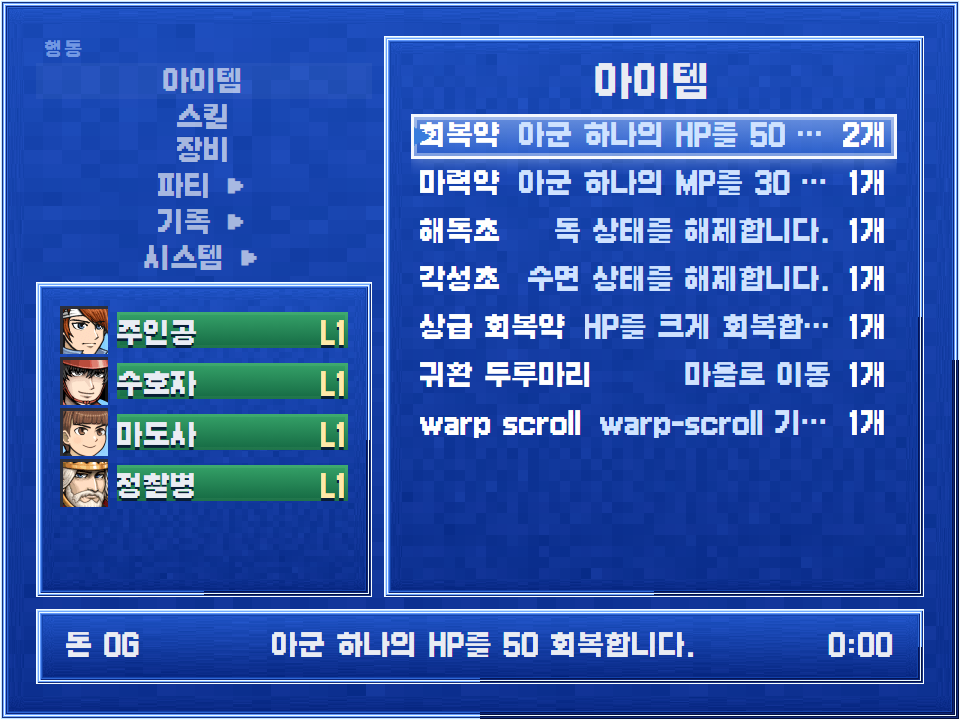
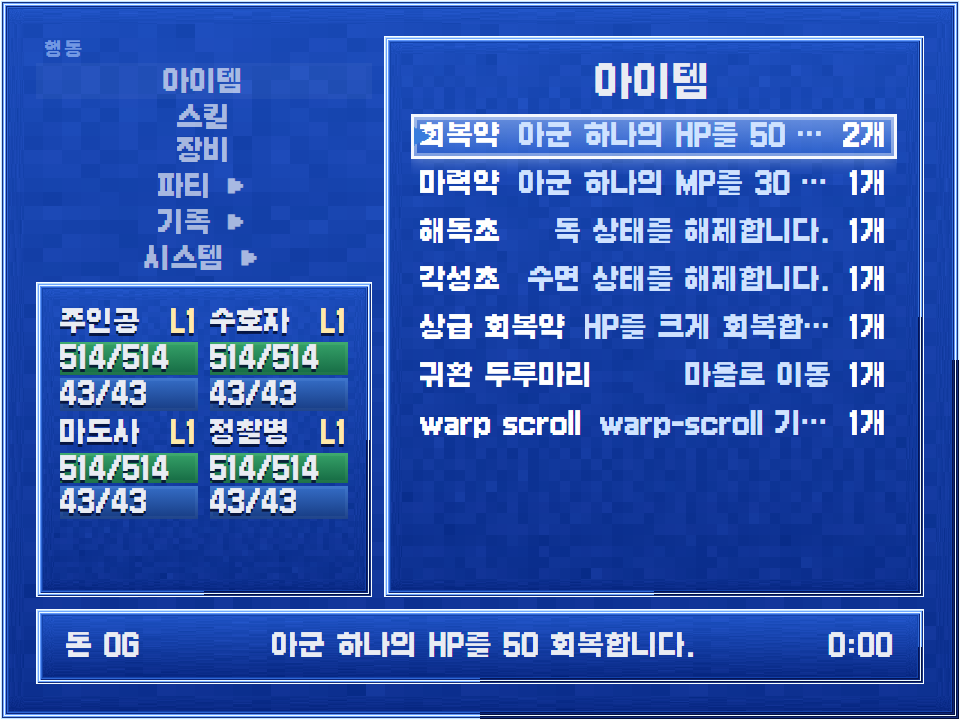
feat(menu): 장비 스탯 델타 — 커서 올린 후보 기준으로 능력치 증감 표시(목업 C)
장비를 값도 모르고 고르던 문제를 없앤다. 증감은 이미 설명 문자열에 있었지만
1줄로 압축된 행에서 말줄임으로 묻혀 판단에 쓸 수 없었다.

커서가 올라간 후보 기준으로 사이드바에 "변화" 블록을 그린다:
  공격 53 → 65 (+12)  초록
  방어 72              변화 없으면 화살표를 그리지 않는다 — 시선이 변화에만 가야 한다

절대 총합 기준이다. 장비 보너스 증감만 보여주면 "방어 +7" 이 큰 건지 작은 건지
판단할 기준이 없어서, 기본 능력치(레벨 곡선) + 전 부위 장비 보너스를 합산하고
해당 부위만 후보로 갈아끼워 비교한다.

후보를 고르는 동안에는 파티 대신 "변화" 가 뜬다. 둘 다 넣으면 사이드바를 넘기고,
그 순간 알고 싶은 건 파티 HP 가 아니다.

검증
  - tsc --noEmit -p tsconfig.app.json 통과
  - 전체 유닛 스위트를 main 과 파일 단위로 비교: 105 = 105, 증가한 실패 0건
  - e2e 에 델타 검사 추가 — 4개 스탯 행, 커서 이동 시 상승 행이 정확히 1개,
    그리고 그때 파티 패널이 대신 숨는지

Changed region(s): [[0.0625, 0.4278, 0.375, 0.7333]]

diff --git a/src/player/playerStatusMenuDetails.ts b/src/player/playerStatusMenuDetails.ts
@@ -1,6 +1,8 @@
 import type { SaveSlotIndex, SaveSlotReadResult } from "@/player/saveSlots";
 import { canEquip, effectiveActorEquipment, equipmentSlotAccepts } from "@/player/playerEquipmentRules";
 import { resolveActorName } from "@/project/sessionActorCommands";
+import { normalizeActorRecord, parameterValueAtLevel } from "@/project/actorModel";
+import type { StatusMenuStatDelta } from "@/player/playerStatusMenuDetailTypes";
 import { effectiveActorClassId } from "@/project/sessionClass";
 import type { PlaySession } from "@/project/session";
 import type {
@@ -24,7 +26,7 @@ import {
   type StatusMenuGroupEntryId,
 } from "@/player/playerStatusMenuModel";
 
-export type { StatusMenuDetail, StatusMenuDetailEntry, StatusMenuDetailOptions } from "@/player/playerStatusMenuDetailTypes";
+export type { StatusMenuDetail, StatusMenuDetailEntry, StatusMenuDetailOptions, StatusMenuStatDelta } from "@/player/playerStatusMenuDetailTypes";
 
 const EQUIPMENT_SLOTS = [
   { id: "weapon", label: "무기" },
@@ -204,6 +206,7 @@ function equipmentDetail(options: StatusMenuDetailOptions): StatusMenuDetail {
         label: "해제",
         value: equipmentName(equipmentById, currentEquipmentId),
         description: `현재 장비를 벗습니다 / ${statDiffLine(zeroStats(), currentStats)}`,
+        statDelta: equipmentStatDelta(options, actor, options.equipmentSlotId as keyof ActorInitialEquipment, undefined),
         testId: "status-menu-equipment-item-none",
         onActivate: options.onUnequipItem ? () => options.onUnequipItem?.(actor.id, options.equipmentSlotId as keyof ActorInitialEquipment) : undefined,
       }]
@@ -216,6 +219,7 @@ function equipmentDetail(options: StatusMenuDetailOptions): StatusMenuDetail {
         label: equipment.name,
         value: `소지 ${session.inventory[equipment.id] ?? 0}개`,
         description: equipmentDetailLine(equipment, currentStats),
+        statDelta: equipmentStatDelta(options, actor, options.equipmentSlotId as keyof ActorInitialEquipment, equipment.id),
         testId: `status-menu-equipment-item-${equipment.id}`,
         onActivate: options.onEquipItem ? () => options.onEquipItem?.(actor.id, options.equipmentSlotId as keyof ActorInitialEquipment, equipment.id) : undefined,
       })),
@@ -526,6 +530,39 @@ function skillKindLabel(skill: SkillRecord): string {
 
 function statDiffLine(next: EquipmentStatBonuses, current: EquipmentStatBonuses): string {
   return STAT_LABELS.map(([key, label]) => `${label} ${signed(next[key] - current[key])}`).join(" / ");
+}
+
+/** 기본 능력치(레벨 곡선) + 전 부위 장비 보너스 합계. 한 부위만 후보로 갈아끼워 비교한다.
+    장비 보너스 증감만 보여주면 "방어 +7" 이 큰 건지 작은 건지 판단할 기준이 없다. */
+function actorStatTotal(
+  options: StatusMenuDetailOptions,
+  actor: ActorRecord,
+  statKey: keyof EquipmentStatBonuses,
+  slotId: keyof ActorInitialEquipment,
+  candidateId: string | undefined
+): number {
+  const { project, session } = options;
+  const level = session.actorLevels[actor.id] ?? actor.initialLevel;
+  const curves = normalizeActorRecord(actor).parameterCurves;
+  const worn: ActorInitialEquipment = { ...actorEquipment(project, session, actor), [slotId]: candidateId };
+  return EQUIPMENT_SLOTS.reduce(
+    (total, slot) => total + equipmentStats(project, worn[slot.id])[statKey],
+    parameterValueAtLevel(curves[statKey], level)
+  );
+}
+
+function equipmentStatDelta(
+  options: StatusMenuDetailOptions,
+  actor: ActorRecord,
+  slotId: keyof ActorInitialEquipment,
+  candidateId: string | undefined
+): readonly StatusMenuStatDelta[] {
+  const currentId = actorEquipment(options.project, options.session, actor)[slotId];
+  return STAT_LABELS.map(([key, label]) => ({
+    label,
+    current: actorStatTotal(options, actor, key, slotId, currentId),
+    next: actorStatTotal(options, actor, key, slotId, candidateId),
+  }));
 }
 
 function equipmentDetailLine(equipment: EquipmentRecord, currentStats: EquipmentStatBonuses): string {

diff --git a/docs/2026-08-03-ingame-menu-uiux-proposal.html b/docs/2026-08-03-ingame-menu-uiux-proposal.html
@@ -139,7 +139,7 @@ footer{border-top:1px solid var(--line);padding:28px 0 48px;color:#89919f;font-s
 <nav><div class="wrap">
   <a href="#verdict">총평</a><a href="#now">현재 화면</a><a href="#failures">결함 12</a>
   <a href="#mockups">목업 3종</a><a href="#focus">포커스 모델</a><a href="#skins">메뉴 스킨</a>
-  <a href="#tech">기술 부채</a><a href="#shipped">구현 결과 A</a><a href="#shipped-b">구현 결과 B</a><a href="#priority">실행 순서</a>
+  <a href="#tech">기술 부채</a><a href="#shipped">구현 결과 A</a><a href="#shipped-b">구현 결과 B</a><a href="#shipped-c">구현 결과 C</a><a href="#priority">실행 순서</a>
 </div></nav>
 
 <main class="wrap">
@@ -601,6 +601,38 @@ footer{border-top:1px solid var(--line);padding:28px 0 48px;color:#89919f;font-s
   <div class="card" style="margin-top:18px"><h3>구현하며 배운 것 — 목업은 세로 예산을 모른다</h3>
     <p>목업 3종은 전부 4:3 비율을 지켰지만 <b>실제 폰트 메트릭과 최소 행 높이</b>는 담지 못했다. B안에서 바뀐 결정(파티 그룹까지 접기, 파티 1줄화, 얼굴 16px)은 모두 목업이 아니라 실측이 정했다.</p>
     <p>검사 자체가 틀린 적도 있다. 압축 행이 두 줄인지 보려고 <code>getBoundingClientRect()</code>(스테이지 스케일이 곱해진 값)와 <code>lineHeight</code>(CSS px)를 비교해 <b>항상 실패</b>했다. 실제로는 CSS가 이미 옳았다 — 측정 단위를 섞은 쪽이 틀렸다.</p>
+  </div>
+</section>
+
+<section id="shipped-c">
+  <div class="section-kicker">Shipped · C</div>
+  <h2>장비 스탯 델타 + 파티 수치 복구 — 구현 완료</h2>
+  <div class="diffgrid">
+    <div class="evidence">
+      <img src="./2026-08-03-ingame-menu-assets/after-c-equipment-delta.png" alt="장비 스탯 델타">
+      <div class="caption"><b>장비 후보</b> — 커서를 올린 후보 기준으로 좌측 "변화" 블록이 갱신된다. <code>공격 53 → 65 (+12)</code> 초록, 하락은 빨강, <b>변하지 않는 값은 화살표를 그리지 않는다</b></div>
+    </div>
+    <div class="evidence">
+      <img src="./2026-08-03-ingame-menu-assets/after-b-items.png" alt="파티 2×2 격자">
+      <div class="caption"><b>파티 2×2</b> — MP 게이지와 HP/MP 수치를 되살렸다. 셀 폭 52px 라 접두사 없이 수치만, 어느 쪽인지는 게이지 색이 알려준다</div>
+    </div>
+  </div>
+  <div class="grid3" style="margin-top:18px">
+    <div class="card good"><h3>델타는 절대 총합 기준</h3>
+      <p>장비 보너스 증감만 보여주면 <code>방어 +7</code>이 큰 건지 작은 건지 판단할 기준이 없다.</p>
+      <p>그래서 <b>기본 능력치(레벨 곡선) + 전 부위 장비 보너스</b>를 합산하고, 해당 부위만 후보로 갈아끼워 비교한다.</p>
+      <p>후보를 고르는 동안에는 파티 대신 "변화"가 뜬다. 그 순간 알고 싶은 건 파티 HP가 아니다.</p>
+    </div>
+    <div class="card good"><h3>파티 수치 복구</h3>
+      <p>1열 × 4명으로 HP/MP 두 줄을 넣으면 명당 34px = 136px 라 사이드바(100px)를 넘겨 뒤 2명이 잘렸다.</p>
+      <p><b>2×2 격자</b>로 두면 2행 × 34px = 69px 로 들어간다. 대신 셀 폭이 52px 라 얼굴을 뺐다.</p>
+      <p><code>HP 514/514</code>는 가로로 넘쳐 접두사를 뺐다. 전체 문자열은 <code>aria-label</code>이 담는다.</p>
+    </div>
+    <div class="card"><h3>검증</h3>
+      <p>· <code>tsc --noEmit -p tsconfig.app.json</code> 통과</p>
+      <p>· 전체 유닛 스위트 main 대비 <b>105 = 105, 증가한 실패 0건</b></p>
+      <p>· e2e에 델타 검사 추가 — 4개 스탯 행이 뜨는지, 커서 이동 시 상승 행이 정확히 1개인지, 파티가 대신 숨는지</p>
+    </div>
   </div>
 </section>
 

diff --git a/src/player/playerStatusMenu.ts b/src/player/playerStatusMenu.ts
@@ -9,7 +9,7 @@ import {
   type PlayerStatusMenuSnapshot,
   type StatusMenuCommand,
 } from "@/player/playerStatusMenuModel";
-import { createStatusMenuDetail, type StatusMenuDetail } from "@/player/playerStatusMenuDetails";
+import { createStatusMenuDetail, type StatusMenuDetail, type StatusMenuStatDelta } from "@/player/playerStatusMenuDetails";
 import { renderStatusMenuDetailPanel } from "@/player/playerStatusMenuDetailRenderer";
 import { applySystemGraphic } from "@/player/systemGraphics";
 import type { PlayerStatusMenuActions, PlayerStatusMenuOptions } from "@/player/playerStatusMenuTypes";
@@ -81,7 +81,10 @@ export function renderPlayerStatusMenu(options: PlayerStatusMenuOptions): HTMLEl
       dataset: { testid: "status-menu-sidebar" },
       children: [
         renderCommandRail({ snapshot, selectedCommand, actions: options.actions }),
-        renderPartyPanel(snapshot),
+        // 장비 후보를 고르는 중이면 파티 대신 "변화" 를 띄운다. 둘 다 넣으면 사이드바를 넘기고,
+        // 그 순간 알고 싶은 건 파티 HP 가 아니라 "이걸 끼면 뭐가 얼마나 바뀌나" 다.
+        renderStatDeltaPanel(selectedEntryStatDelta(detail, options.selectedDetailActionIndex))
+          ?? renderPartyPanel(snapshot),
       ],
     }),
     renderStatusMenuDetailPanel(options.project, detail, {
@@ -233,6 +236,47 @@ function renderVitalGauge(ratio: number, variant: string, testId: string): HTMLE
       attrs: { style: `width:${percent}` },
     })],
   });
+}
+
+/** 커서가 올라간 조작 가능 항목의 능력치 변화. 없으면 undefined. */
+function selectedEntryStatDelta(
+  detail: StatusMenuDetail,
+  selectedActionIndex: number | undefined
+): readonly StatusMenuStatDelta[] | undefined {
+  if (selectedActionIndex === undefined) return undefined;
+  let actionIndex = 0;
+  for (const entry of detail.entries) {
+    if (!entry.onActivate || entry.disabled) continue;
+    if (actionIndex === selectedActionIndex) return entry.statDelta;
+    actionIndex += 1;
+  }
+  return undefined;
+}
+
+function renderStatDeltaPanel(deltas: readonly StatusMenuStatDelta[] | undefined): HTMLElement | null {
+  if (!deltas || deltas.length === 0) return null;
+  const panel = el("section", {
+    class: "status-menu-stat-delta",
+    dataset: { testid: "status-menu-stat-delta" },
+  });
+  panel.append(el("div", { class: "status-menu-stat-delta-title", text: "변화" }));
+  for (const delta of deltas) {
+    const diff = delta.next - delta.current;
+    const row = el("div", {
+      class: `status-menu-stat-delta-row${diff > 0 ? " up" : diff < 0 ? " down" : ""}`,
+      dataset: { testid: `status-menu-stat-delta-${delta.label}` },
+    });
+    row.append(el("span", { class: "status-menu-stat-delta-label", text: delta.label }));
+    // 변하지 않는 값에는 화살표를 그리지 않는다 — 시선이 변화에만 가야 한다.
+    row.append(el("span", {
+      class: "status-menu-stat-delta-value",
+      text: diff === 0
+        ? String(delta.current)
+        : `${delta.current} → ${delta.next} (${diff > 0 ? "+" : "−"}${Math.abs(diff)})`,
+    }));
+    panel.append(row);
+  }
+  return panel;
 }
 
 /** 상세 패널의 actionIndex 배정 규칙(renderStatusMenuDetailPanel)과 같은 순서로 세어

diff --git a/test/e2e/status-menu-p0-redesign.spec.ts b/test/e2e/status-menu-p0-redesign.spec.ts
@@ -63,6 +63,29 @@ test("keeps the redesigned status menu readable without clipping any text", asyn
   expect(await clippedMenuText(page)).toEqual([]);
   await screenshotMenu(page, `${EVIDENCE_DIR}/equipment-grouped-rail-and-gauges.png`);
 
+  // 목업 C — 장비 후보로 들어가면 사이드바가 "변화" 블록으로 바뀌고 증감이 보인다.
+  await page.getByTestId("status-menu-equipment-actor-actor_hero").click();
+  await page.getByTestId("status-menu-equipment-slot-weapon").click();
+  await expect(page.getByTestId("status-menu-stat-delta")).toBeVisible();
+  // 파티 대신 뜬다 — 둘 다 넣으면 사이드바를 넘긴다.
+  await expect(page.getByTestId("status-menu-party")).toHaveCount(0);
+  for (const stat of ["공격", "방어", "정신", "민첩"]) {
+    await expect(page.getByTestId(`status-menu-stat-delta-${stat}`)).toBeVisible();
+  }
+  // 실제로 바뀌는 값이 하나라도 화살표로 표시돼야 한다.
+  expect(await page.locator(".status-menu-stat-delta-row.up, .status-menu-stat-delta-row.down").count())
+    .toBeGreaterThan(0);
+  expect(await clippedMenuText(page)).toEqual([]);
+  // 커서를 실제 후보로 옮기면 "변화" 블록이 그 후보 기준으로 갱신된다.
+  await page.keyboard.press("ArrowDown");
+  await page.keyboard.press("ArrowDown");
+  await page.keyboard.press("ArrowDown");
+  await expect(page.locator(".status-menu-stat-delta-row.up")).toHaveCount(1);
+  expect(await clippedMenuText(page)).toEqual([]);
+  await screenshotMenu(page, `${EVIDENCE_DIR}/equipment-stat-delta.png`);
+  await page.keyboard.press("x");
+  await page.keyboard.press("x");
+
   // B안 — 접힌 시스템 그룹이 작업 영역에 펼쳐지고, 타이틀은 거기서 파괴적으로 표시된다.
   await page.getByTestId("status-menu-command-system-menu").click();
   await expect(page.getByTestId("status-menu-detail-title")).toHaveText("시스템");

diff --git a/src/styles/database/tabs-b-status-menu-main.css b/src/styles/database/tabs-b-status-menu-main.css
@@ -146,6 +146,51 @@
     transition: none;
   }
 }
+/* 장비 후보를 고르는 동안 파티 자리에 뜨는 "변화" 블록(목업 C). */
+.status-menu-stat-delta {
+  align-content: start;
+  background:
+    linear-gradient(180deg, rgba(255, 255, 255, 0.08), rgba(6, 22, 96, 0.08)),
+    var(--runtime-window-fill-fallback);
+  border: var(--runtime-window-border-tight) solid transparent;
+  border-image-repeat: stretch;
+  border-image-slice: var(--runtime-window-slice);
+  border-image-source: var(--runtime-window-skin);
+  border-image-width: var(--runtime-window-border-tight);
+  display: grid;
+  gap: 1px;
+  grid-auto-rows: max-content;
+  line-height: 1.2;
+  min-height: 0;
+  overflow: hidden;
+  padding: 2px;
+}
+.status-menu-stat-delta-title {
+  color: #a9c8ff;
+  font-size: 7px;
+  letter-spacing: 0.1em;
+  padding: 0 2px;
+}
+.status-menu-stat-delta-row {
+  display: grid;
+  gap: 3px;
+  grid-template-columns: max-content minmax(0, 1fr);
+  min-width: 0;
+  padding: 0 2px;
+}
+.status-menu-stat-delta-value {
+  min-width: 0;
+  overflow: hidden;
+  text-align: right;
+  text-overflow: ellipsis;
+  white-space: nowrap;
+}
+.status-menu-stat-delta-row.up .status-menu-stat-delta-value {
+  color: #9df5b8;
+}
+.status-menu-stat-delta-row.down .status-menu-stat-delta-value {
+  color: #ff9c9c;
+}
 .status-menu-detail {
   background:
     linear-gradient(180deg, rgba(255, 255, 255, 0.08), rgba(6, 22, 96, 0.08)),

diff --git a/src/player/playerStatusMenuDetailTypes.ts b/src/player/playerStatusMenuDetailTypes.ts
@@ -13,8 +13,17 @@ export type StatusMenuDetailEntry = {
     readonly testId: string;
   };
   readonly testId?: string;
+  /** 이 후보를 고르면 능력치가 어떻게 변하는가. 커서가 올라간 항목의 값을 사이드바가 그린다.
+      설명 문자열에도 증감이 들어 있지만 좁은 행에서 말줄임으로 묻혀 판단에 못 쓴다. */
+  readonly statDelta?: readonly StatusMenuStatDelta[];
   readonly onActivate?: () => void;
   readonly disabled?: boolean;
+};
+
+export type StatusMenuStatDelta = {
+  readonly label: string;
+  readonly current: number;
+  readonly next: number;
 };
 
 export type StatusMenuDetail = {
